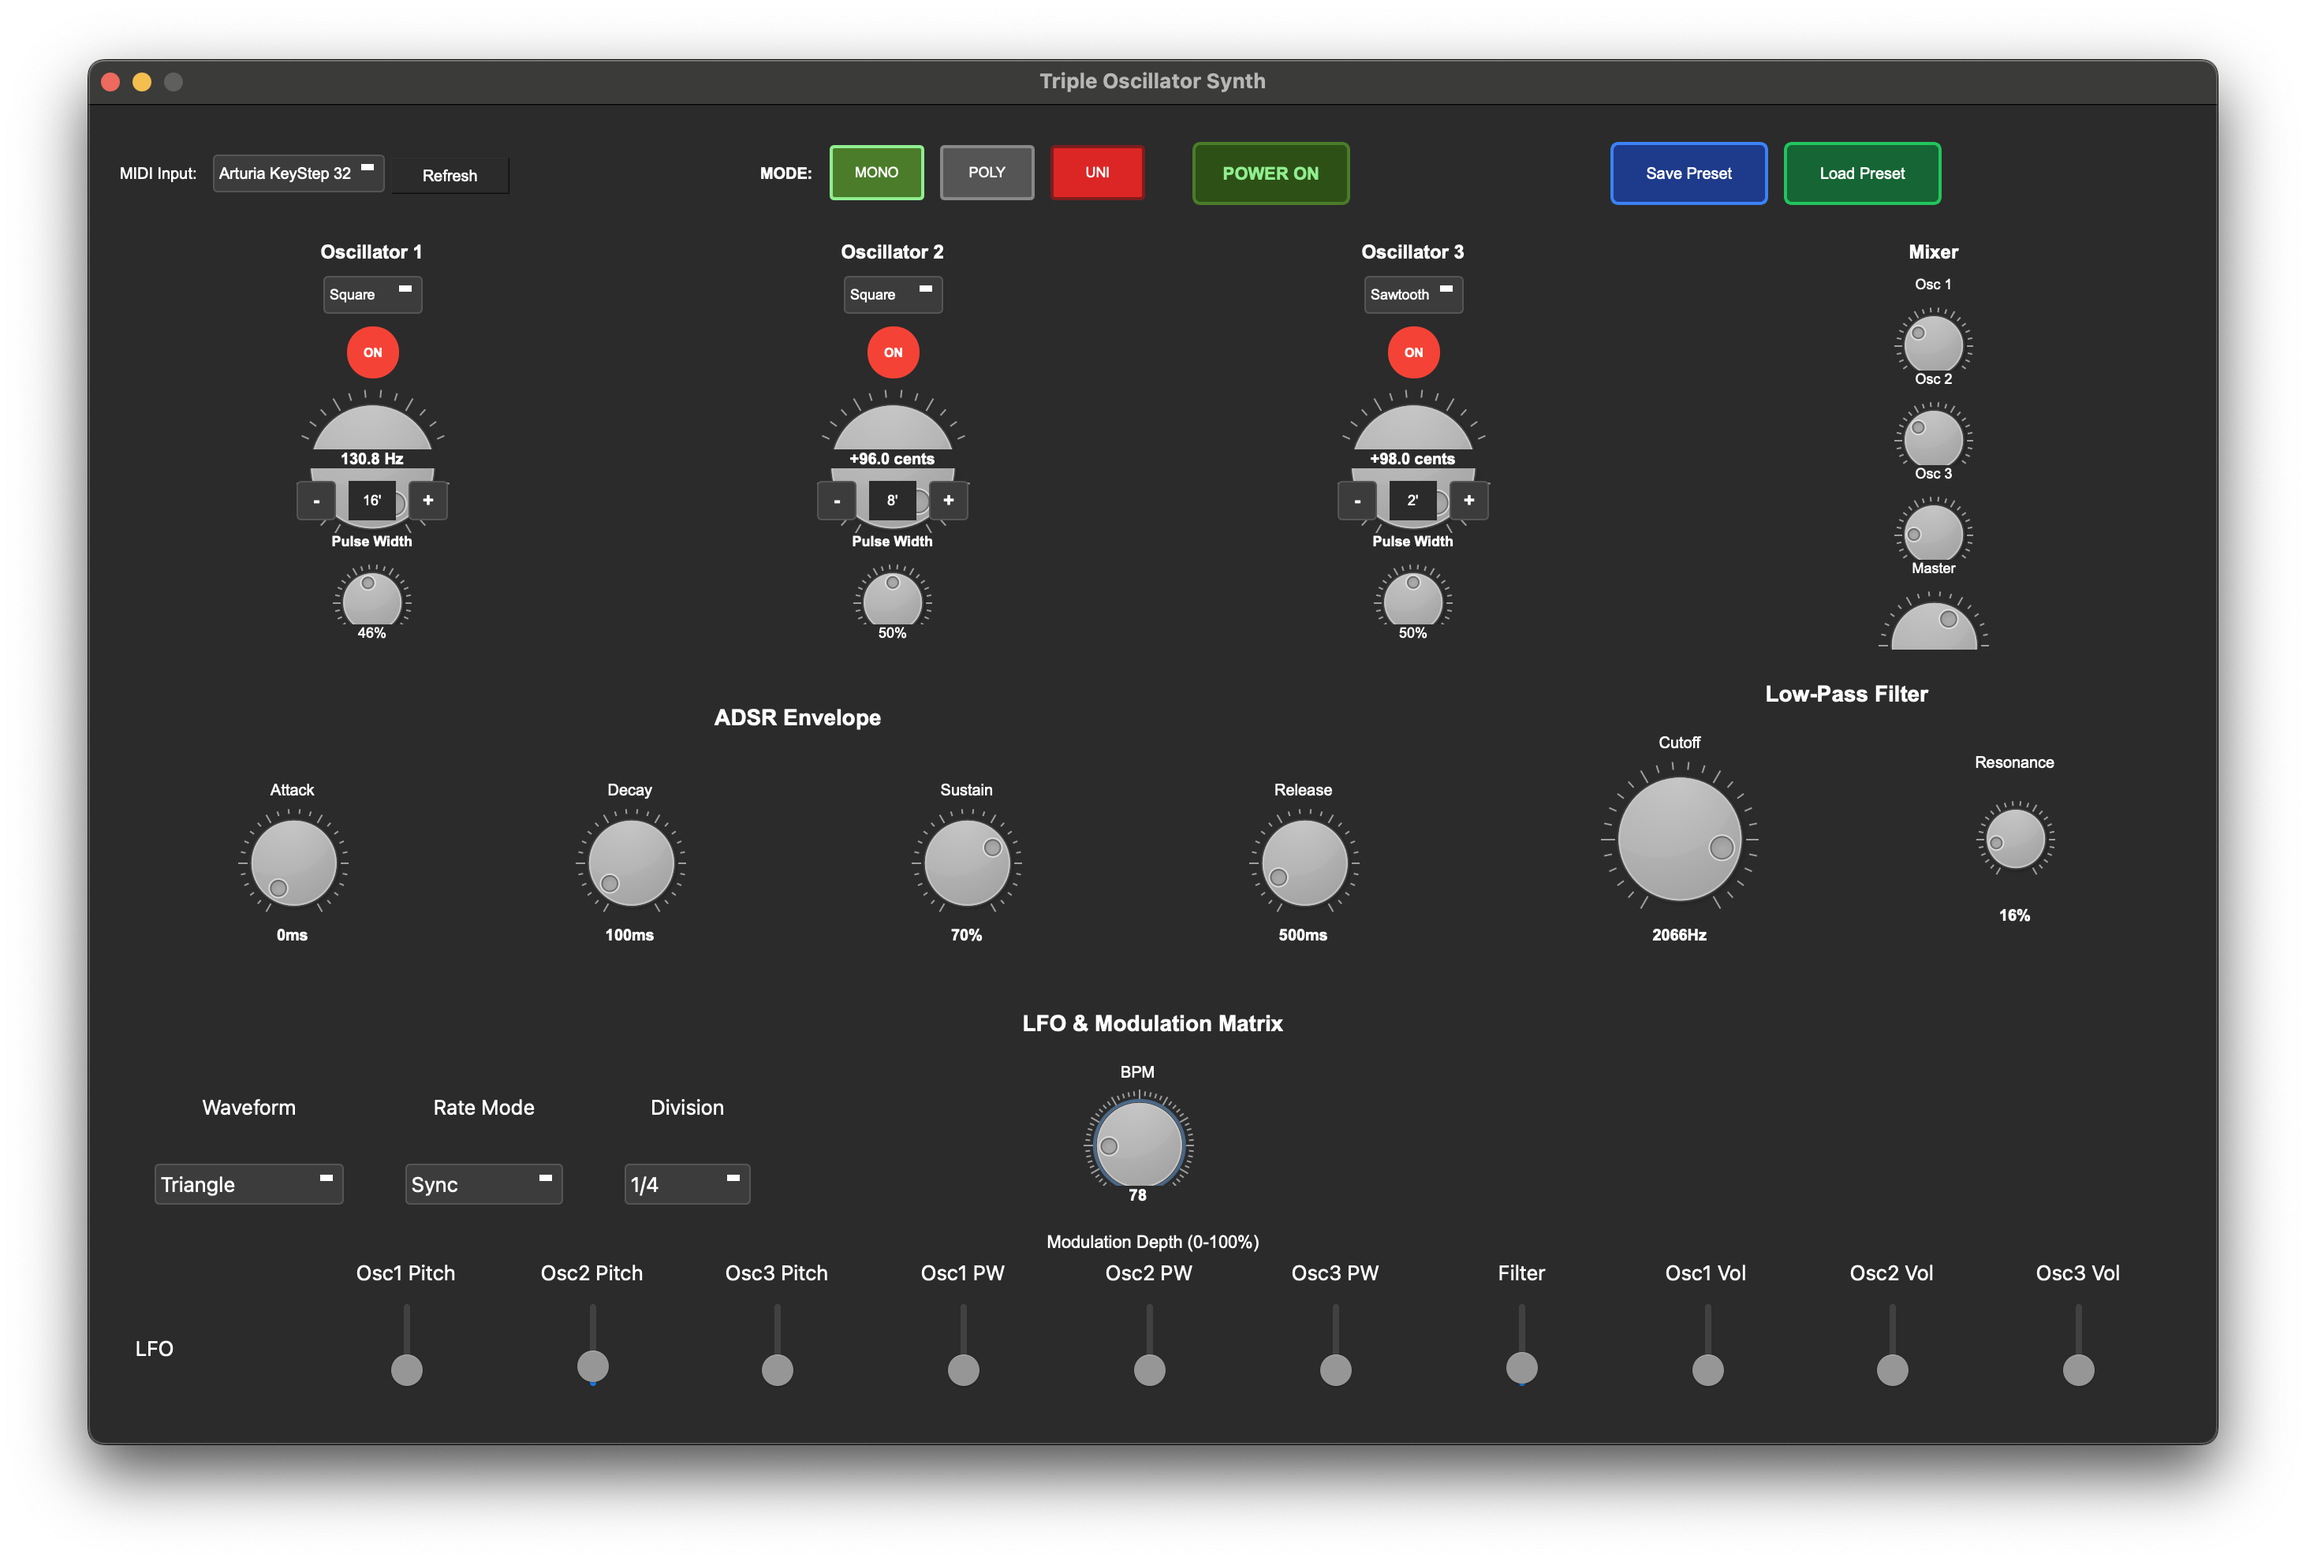
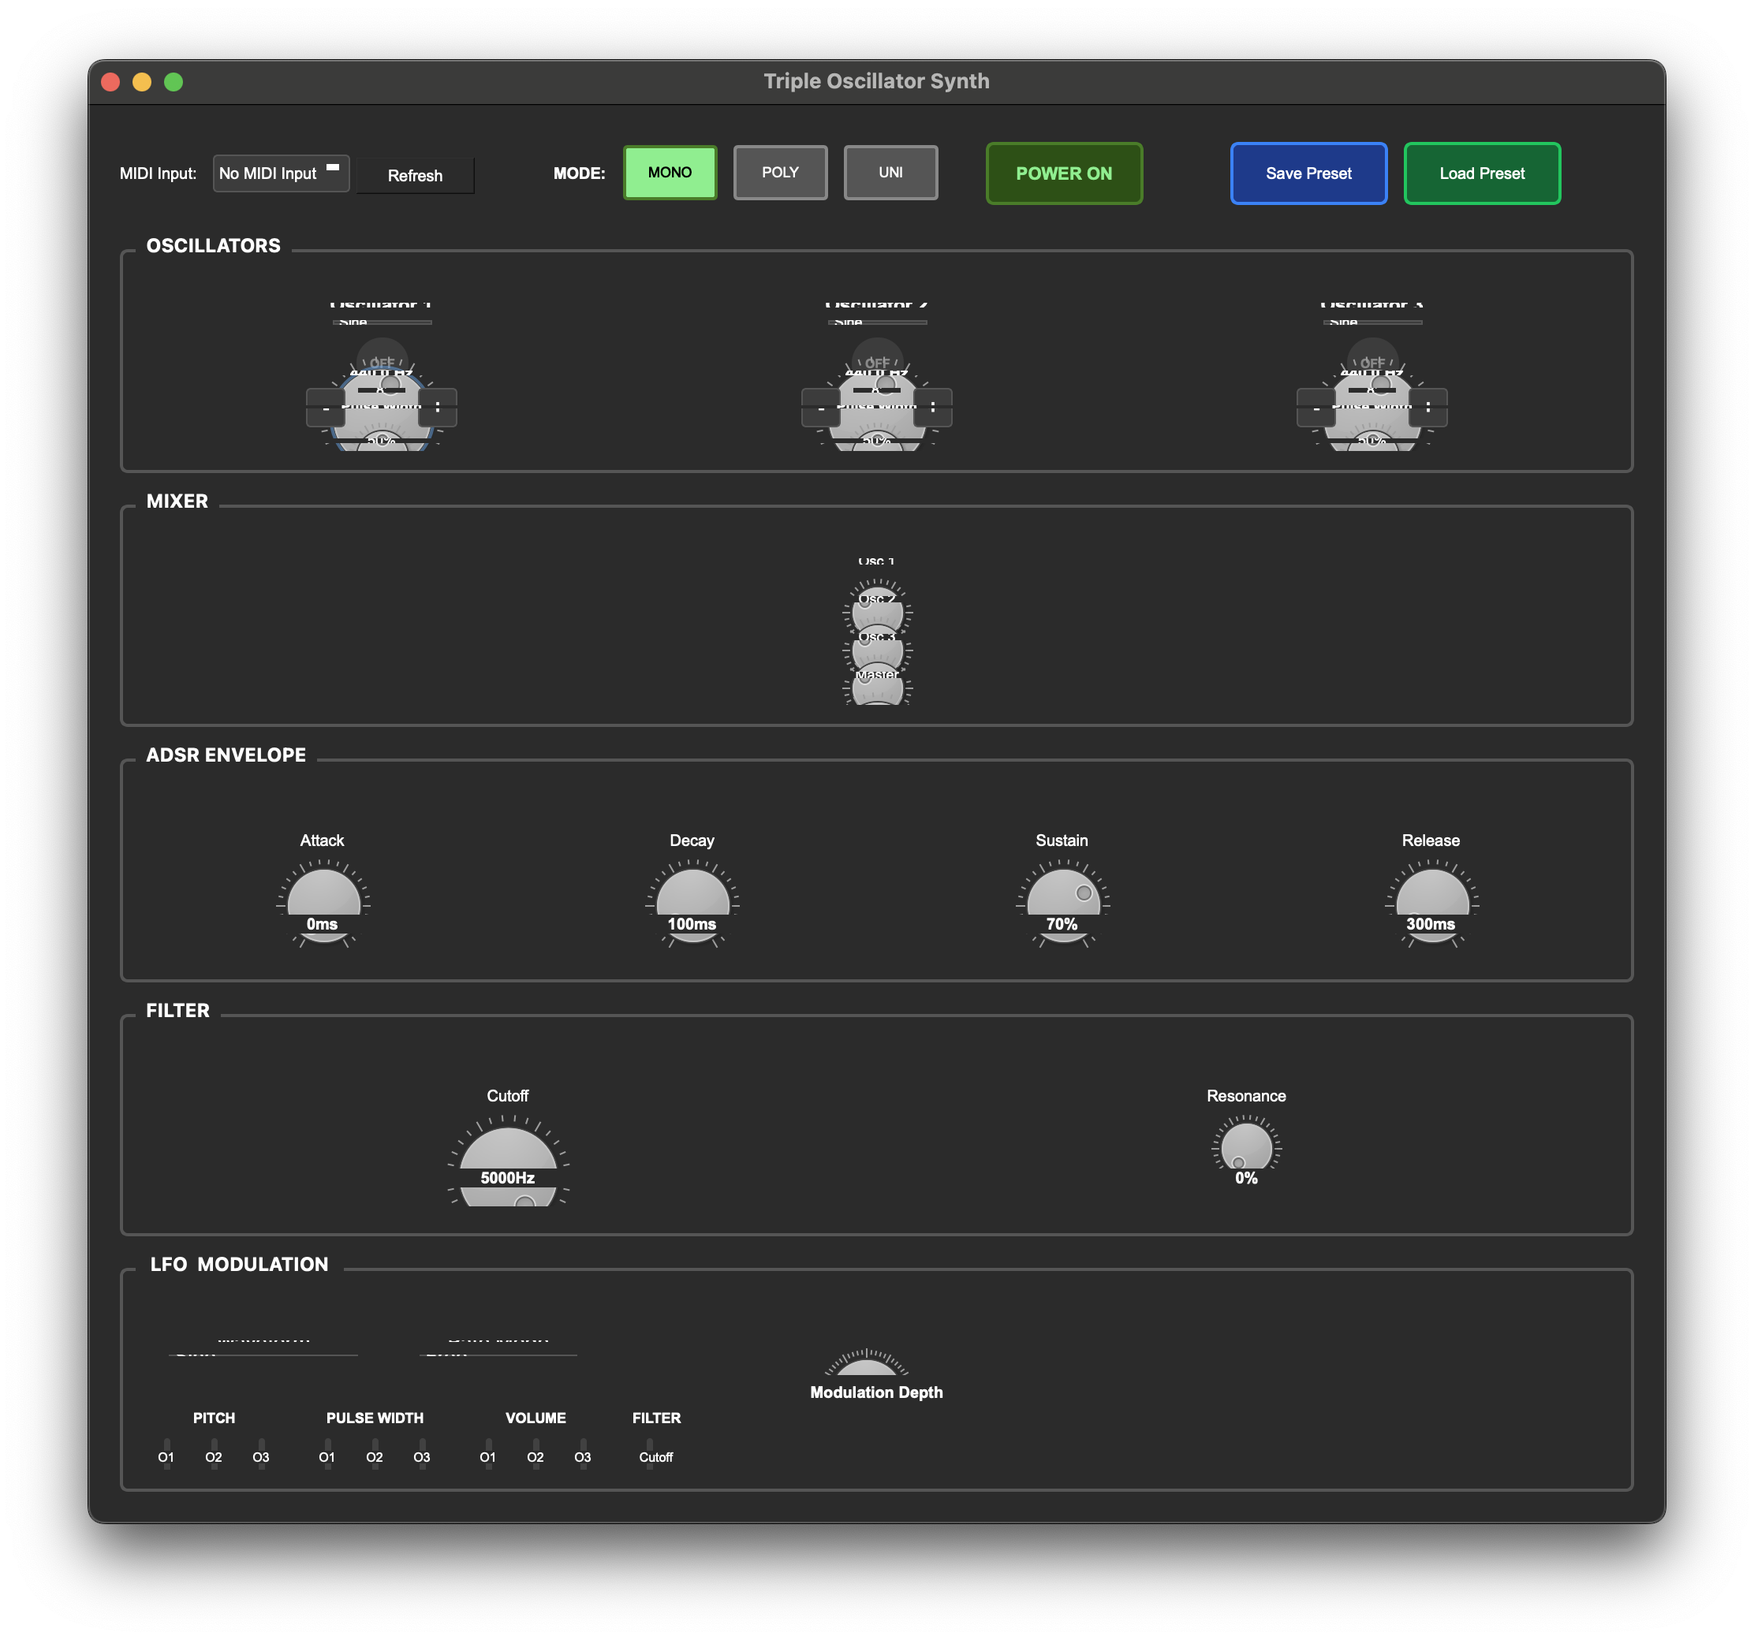
Add LFO dry/wet mix controls with dual-slider interface
This commit implements per-assignment dry/wet (mix) controls for all 10 LFO
modulation assignments, giving users precise control over modulation blending.

UI Changes:
- Renamed "Waveform" to "Shape" for consistency
- Renamed "Rate Mode" to "Sync" for clarity
- Renamed "Rate" to "Freq" (Frequency)
- Updated label: "Modulation Assignments (Depth / Mix)"
- Each assignment now has two slim vertical sliders (18x50px):
  - Left slider: Depth (0-100%) - modulation amount
  - Right slider: Mix (0-100%) - dry/wet blend
- Compact spacing to fit 20 sliders (10 assignments × 2) in the LFO section

Modulation Matrix Layout:
- GROUP 1: PITCH (O1, O2, O3) - 3 pairs of sliders
- GROUP 2: PULSE WIDTH (O1, O2, O3) - 3 pairs of sliders
- GROUP 3: VOLUME (O1, O2, O3) - 3 pairs of sliders
- GROUP 4: FILTER (Cutoff) - 1 pair of sliders

Implementation:
- Added 10 new mix variables in __init__():
  - lfo_to_osc1/2/3_pitch_mix
  - lfo_to_osc1/2/3_pw_mix
  - lfo_to_osc1/2/3_volume_mix
  - lfo_to_filter_cutoff_mix
- All mix controls default to 100% (fully wet)
- Depth and mix are independent: depth sets maximum modulation, mix blends it

Use Cases:
- Depth: Control maximum modulation amount (e.g., ±50 cents for vibrato)
- Mix: Fade LFO modulation in/out smoothly
- Combined: Set strong depth but low mix for subtle effects
- Automation-ready: Both parameters can be adjusted independently in real-time

🤖 Generated with [Claude Code](https://claude.com/claude-code)

diff --git a/sine_generator_qt.py b/sine_generator_qt.py
@@ -485,6 +485,18 @@ class SineWaveGenerator(QMainWindow):
         self.lfo_to_osc2_volume = 0.0
         self.lfo_to_osc3_volume = 0.0
 
+        # Modulation matrix mix controls (dry/wet 0-1 for each destination)
+        self.lfo_to_osc1_pitch_mix = 1.0
+        self.lfo_to_osc2_pitch_mix = 1.0
+        self.lfo_to_osc3_pitch_mix = 1.0
+        self.lfo_to_osc1_pw_mix = 1.0
+        self.lfo_to_osc2_pw_mix = 1.0
+        self.lfo_to_osc3_pw_mix = 1.0
+        self.lfo_to_filter_cutoff_mix = 1.0
+        self.lfo_to_osc1_volume_mix = 1.0
+        self.lfo_to_osc2_volume_mix = 1.0
+        self.lfo_to_osc3_volume_mix = 1.0
+
         # MIDI
         self.midi_handler = MIDIHandler()
         self.midi_handler.note_on.connect(self.handle_midi_note_on)
@@ -1368,7 +1380,7 @@ class SineWaveGenerator(QMainWindow):
         return section
 
     def create_lfo_section(self):
-        """Create LFO section with waveform, rate, and modulation matrix"""
+        """Create LFO section with waveform, rate, and modulation matrix with depth + mix controls"""
         section = QWidget()
         main_layout = QVBoxLayout(section)
         main_layout.setSpacing(5)
@@ -1381,7 +1393,7 @@ class SineWaveGenerator(QMainWindow):
         # Waveform selector
         waveform_container = QWidget()
         waveform_layout = QVBoxLayout(waveform_container)
-        waveform_label = QLabel("Waveform")
+        waveform_label = QLabel("Shape")
         waveform_label.setAlignment(Qt.AlignCenter)
         waveform_layout.addWidget(waveform_label)
         self.lfo_waveform_combo = QComboBox()
@@ -1391,10 +1403,10 @@ class SineWaveGenerator(QMainWindow):
         waveform_layout.addWidget(self.lfo_waveform_combo)
         lfo_controls_layout.addWidget(waveform_container)
 
-        # Rate Mode selector
+        # Rate Mode selector (Sync)
         mode_container = QWidget()
         mode_layout = QVBoxLayout(mode_container)
-        mode_label = QLabel("Rate Mode")
+        mode_label = QLabel("Sync")
         mode_label.setAlignment(Qt.AlignCenter)
         mode_layout.addWidget(mode_label)
         self.lfo_mode_combo = QComboBox()
@@ -1404,8 +1416,8 @@ class SineWaveGenerator(QMainWindow):
         mode_layout.addWidget(self.lfo_mode_combo)
         lfo_controls_layout.addWidget(mode_container)
 
-        # Rate knob (Free mode: 0.1-20 Hz)
-        self.lfo_rate_container = self.create_knob_with_label("Rate", 1, 200, 20,
+        # Rate knob (Free mode: 0.1-20 Hz) - labeled as Freq
+        self.lfo_rate_container = self.create_knob_with_label("Freq", 1, 200, 20,
                                                                 lambda v: self.update_lfo_rate(v / 10.0), size=60)
         lfo_controls_layout.addWidget(self.lfo_rate_container)
 
@@ -1433,18 +1445,18 @@ class SineWaveGenerator(QMainWindow):
         lfo_controls_layout.addStretch()
         main_layout.addLayout(lfo_controls_layout)
 
-        # Bottom: Modulation Matrix - Reorganized into 4 groups
-        matrix_label = QLabel("Modulation Depth")
+        # Bottom: Modulation Matrix with Depth + Mix controls
+        matrix_label = QLabel("Modulation Assignments (Depth / Mix)")
         matrix_label.setAlignment(Qt.AlignCenter)
         matrix_label.setFont(QFont("Arial", 10, QFont.Bold))
         main_layout.addWidget(matrix_label)
 
         # Create horizontal layout for grouped sliders
         lfo_matrix_layout = QHBoxLayout()
-        lfo_matrix_layout.setSpacing(20)
+        lfo_matrix_layout.setSpacing(15)
 
-        # Helper function to create a slider group
-        def create_slider_group(group_title, slider_configs):
+        # Helper function to create a dual-slider group (depth + mix for each target)
+        def create_dual_slider_group(group_title, slider_configs):
             group_layout = QVBoxLayout()
             group_layout.setSpacing(5)
 
@@ -1456,59 +1468,75 @@ class SineWaveGenerator(QMainWindow):
 
             # Sliders in horizontal row
             sliders_row = QHBoxLayout()
-            sliders_row.setSpacing(8)
+            sliders_row.setSpacing(6)
 
-            for label_text, attr_name in slider_configs:
-                slider_container = QVBoxLayout()
-                slider_container.setSpacing(2)
+            for label_text, depth_attr, mix_attr in slider_configs:
+                # Container for one target (2 sliders + label)
+                target_container = QVBoxLayout()
+                target_container.setSpacing(2)
 
-                # Slider
-                slider = QSlider(Qt.Vertical)
-                slider.setMinimum(0)
-                slider.setMaximum(100)
-                slider.setValue(0)
-                slider.setFixedHeight(60)
-                slider.valueChanged.connect(lambda v, attr=attr_name: setattr(self, attr, v / 100.0))
+                # Horizontal row for depth + mix sliders
+                dual_slider_row = QHBoxLayout()
+                dual_slider_row.setSpacing(3)
 
-                # Label below slider
+                # Depth slider
+                depth_slider = QSlider(Qt.Vertical)
+                depth_slider.setMinimum(0)
+                depth_slider.setMaximum(100)
+                depth_slider.setValue(0)
+                depth_slider.setFixedSize(18, 50)
+                depth_slider.valueChanged.connect(lambda v, attr=depth_attr: setattr(self, attr, v / 100.0))
+                dual_slider_row.addWidget(depth_slider)
+
+                # Mix slider
+                mix_slider = QSlider(Qt.Vertical)
+                mix_slider.setMinimum(0)
+                mix_slider.setMaximum(100)
+                mix_slider.setValue(100)  # Default to 100% mix
+                mix_slider.setFixedSize(18, 50)
+                mix_slider.valueChanged.connect(lambda v, attr=mix_attr: setattr(self, attr, v / 100.0))
+                dual_slider_row.addWidget(mix_slider)
+
+                target_container.addLayout(dual_slider_row)
+
+                # Label below sliders
                 label = QLabel(label_text)
                 label.setAlignment(Qt.AlignCenter)
                 label.setFont(QFont("Arial", 8))
+                target_container.addWidget(label)
 
-                slider_container.addWidget(slider)
-                slider_container.addWidget(label)
-                sliders_row.addLayout(slider_container)
+                sliders_row.addLayout(target_container)
 
             group_layout.addLayout(sliders_row)
             return group_layout
 
-        # Group 1: PITCH (3 sliders for Osc1/2/3 pitch)
-        pitch_group = create_slider_group("PITCH", [
-            ("O1", "lfo_to_osc1_pitch"),
-            ("O2", "lfo_to_osc2_pitch"),
-            ("O3", "lfo_to_osc3_pitch")
+        # Group 1: PITCH (3 targets, each with depth + mix)
+        pitch_group = create_dual_slider_group("PITCH", [
+            ("O1", "lfo_to_osc1_pitch", "lfo_to_osc1_pitch_mix"),
+            ("O2", "lfo_to_osc2_pitch", "lfo_to_osc2_pitch_mix"),
+            ("O3", "lfo_to_osc3_pitch", "lfo_to_osc3_pitch_mix")
         ])
         lfo_matrix_layout.addLayout(pitch_group)
 
-        # Group 2: PULSE WIDTH (3 sliders)
-        pw_group = create_slider_group("PULSE WIDTH", [
-            ("O1", "lfo_to_osc1_pw"),
-            ("O2", "lfo_to_osc2_pw"),
-            ("O3", "lfo_to_osc3_pw")
+        # Group 2: PULSE WIDTH (3 targets)
+        pw_group = create_dual_slider_group("PULSE WIDTH", [
+            ("O1", "lfo_to_osc1_pw", "lfo_to_osc1_pw_mix"),
+            ("O2", "lfo_to_osc2_pw", "lfo_to_osc2_pw_mix"),
+            ("O3", "lfo_to_osc3_pw", "lfo_to_osc3_pw_mix")
         ])
         lfo_matrix_layout.addLayout(pw_group)
 
-        # Group 3: VOLUME (3 sliders)
-        vol_group = create_slider_group("VOLUME", [
-            ("O1", "lfo_to_osc1_volume"),
-            ("O2", "lfo_to_osc2_volume"),
-            ("O3", "lfo_to_osc3_volume")
+        # Group 3: VOLUME (3 targets)
+        vol_group = create_dual_slider_group("VOLUME", [
+            ("O1", "lfo_to_osc1_volume", "lfo_to_osc1_volume_mix"),
+            ("O2", "lfo_to_osc2_volume", "lfo_to_osc2_volume_mix"),
+            ("O3", "lfo_to_osc3_volume", "lfo_to_osc3_volume_mix")
         ])
         lfo_matrix_layout.addLayout(vol_group)
 
-        # Group 4: FILTER (1 slider)
-        filter_group = create_slider_group("FILTER", [
-            ("Cutoff", "lfo_to_filter_cutoff")
+        # Group 4: FILTER (1 target)
+        filter_group = create_dual_slider_group("FILTER", [
+            ("Cutoff", "lfo_to_filter_cutoff", "lfo_to_filter_cutoff_mix")
         ])
         lfo_matrix_layout.addLayout(filter_group)
 
